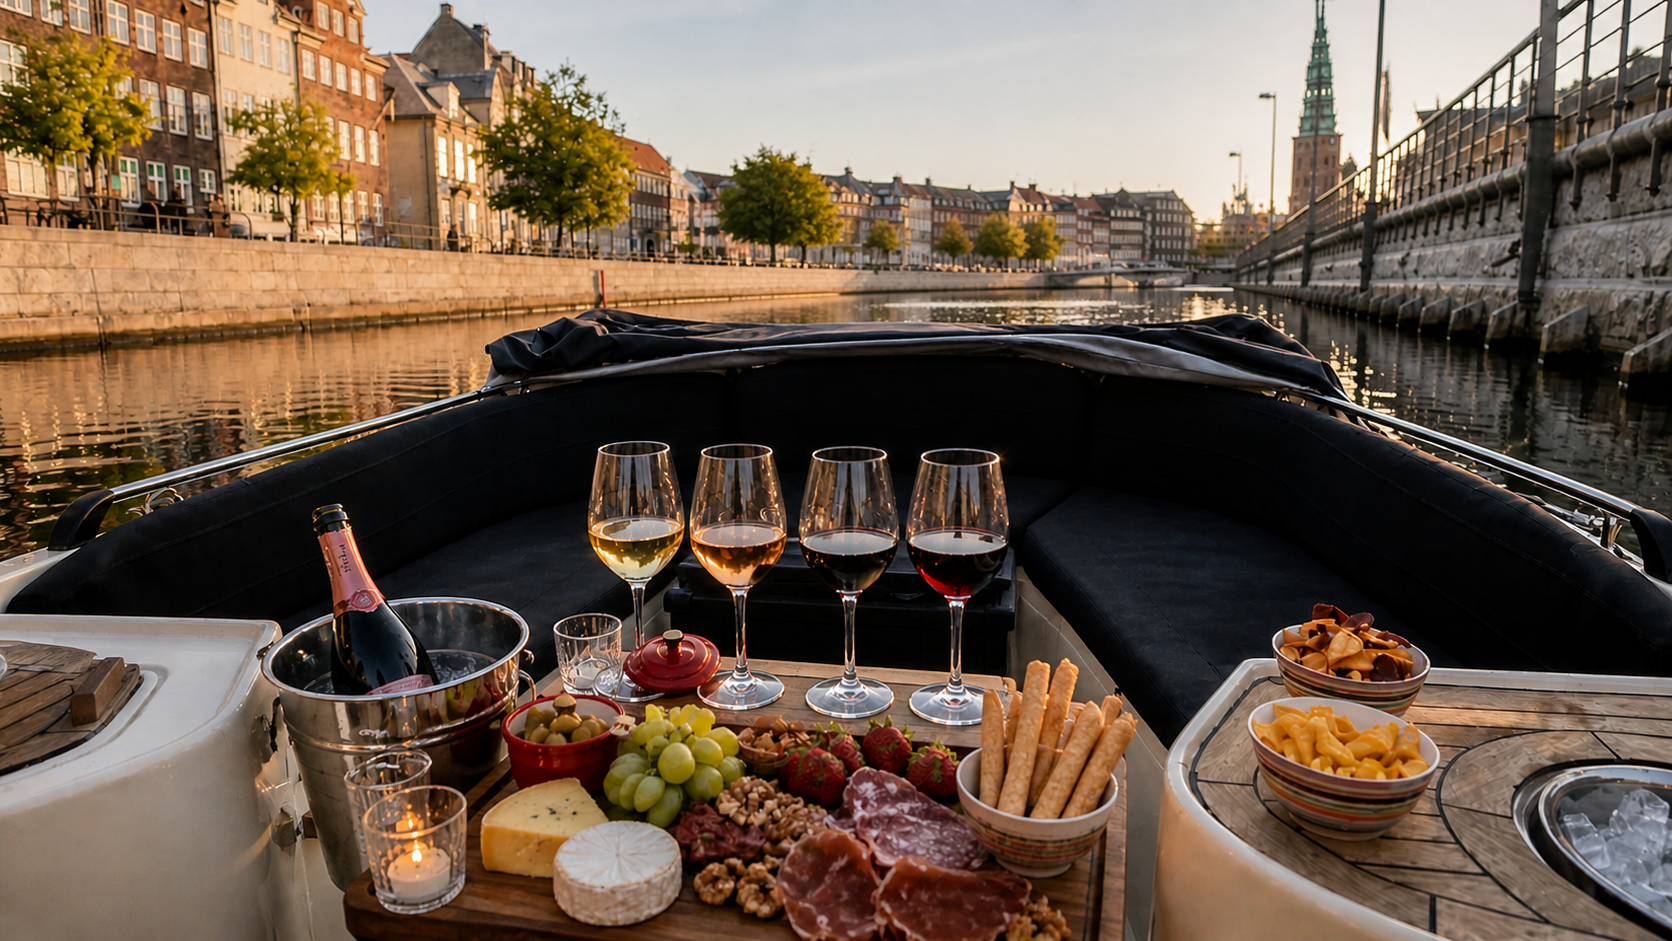
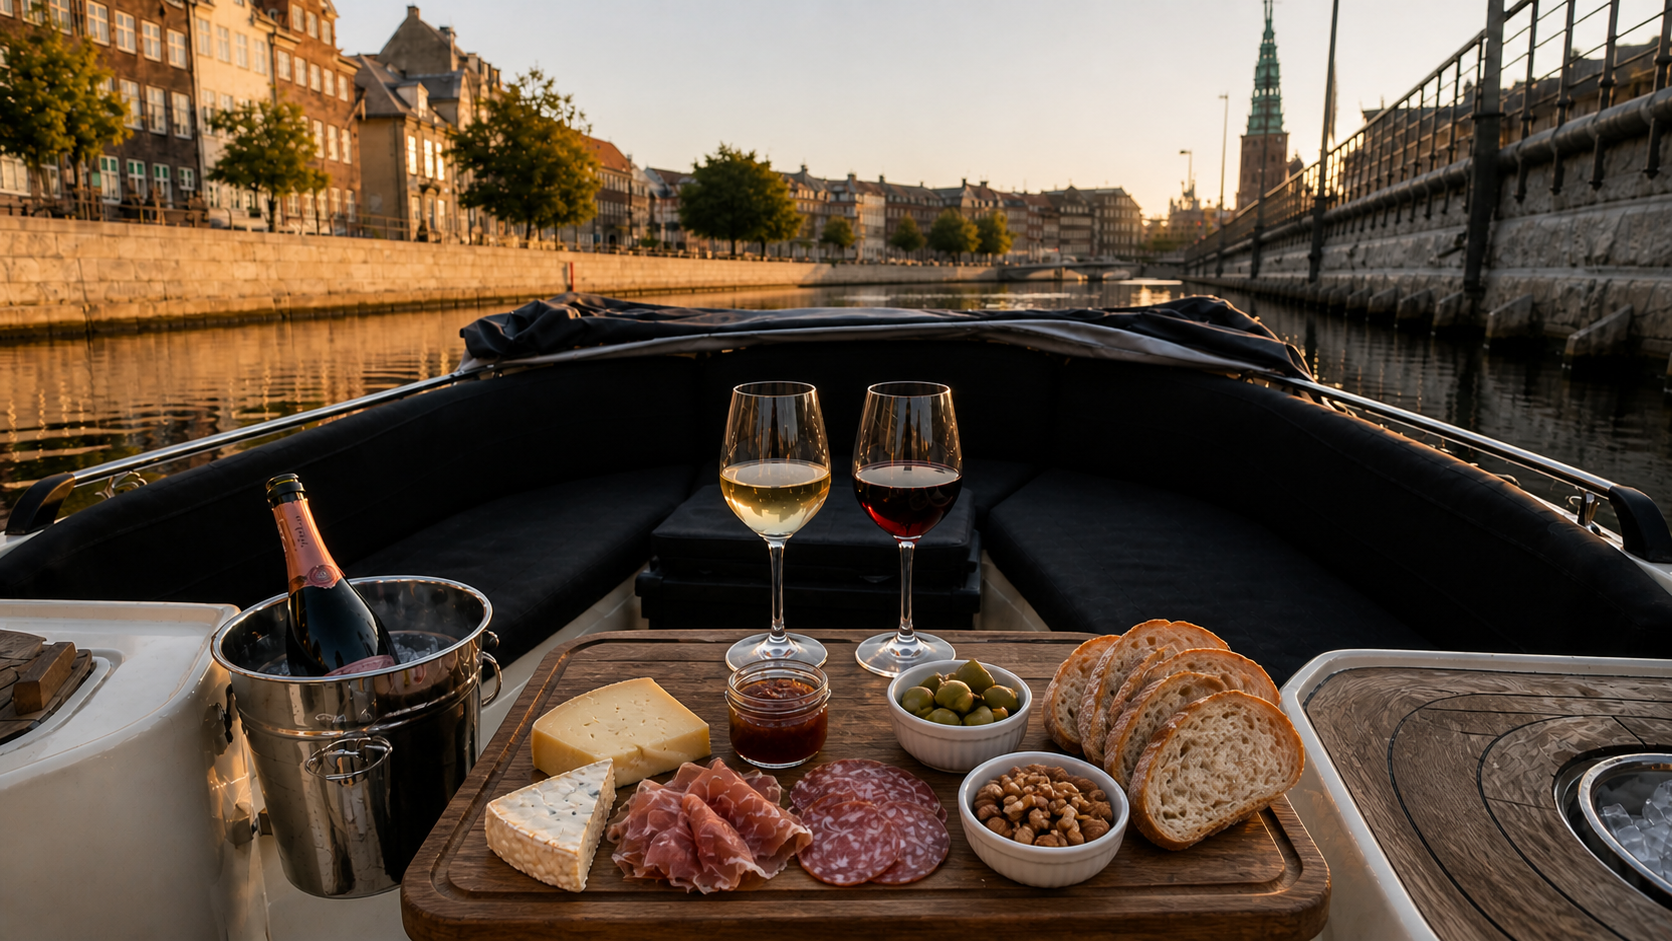
feat: update experience images and implement time selection logic for bookings

diff --git a/js/experience.js b/js/experience.js
@@ -132,7 +132,7 @@ function initBookingPanel() {
 
   const availabilityButton = document.getElementById("experience-check-availability");
 
-  if (!peopleValueInput || !dateValueInput || !languageValueInput || !availabilityButton) {
+  if (!peopleValueInput || !dateValueInput || !timeValueInput || !languageValueInput || !availabilityButton) {
     return;
   }
 
@@ -735,8 +735,10 @@ function initDesktopCarousel() {
   if (!track || !slides.length) return;
 
   let currentIndex = 0;
+  const totalSlides = slides.length;
 
   // Create dots
+  dotsContainer.innerHTML = ''; // Clear existing
   slides.forEach((_, i) => {
     const dot = document.createElement('button');
     dot.className = `experience-gallery__dot ${i === 0 ? 'active' : ''}`;
@@ -748,24 +750,58 @@ function initDesktopCarousel() {
   const dots = dotsContainer.querySelectorAll('.experience-gallery__dot');
 
   function scrollToSlide(index) {
+    // Clamp index
+    if (index < 0) index = 0;
+    if (index >= totalSlides) index = totalSlides - 1;
+    
+    currentIndex = index;
     const slideWidth = slides[0].offsetWidth;
+    
     track.scrollTo({
-      left: index * slideWidth,
+      left: currentIndex * slideWidth,
       behavior: 'smooth'
+    });
+
+    updateDots(currentIndex);
+  }
+
+  function updateDots(index) {
+    dots.forEach((dot, i) => dot.classList.toggle('active', i === index));
+  }
+
+  function handleScrollSync() {
+    const slideWidth = slides[0].offsetWidth;
+    if (slideWidth <= 0) return;
+    
+    const newIndex = Math.round(track.scrollLeft / slideWidth);
+    if (newIndex !== currentIndex) {
+      currentIndex = newIndex;
+      updateDots(currentIndex);
+    }
+  }
+
+  if (prevBtn) {
+    prevBtn.addEventListener('click', (e) => {
+      e.preventDefault();
+      scrollToSlide(currentIndex - 1);
     });
   }
 
-  function updateActiveState() {
-    const slideWidth = slides[0].offsetWidth;
-    currentIndex = Math.round(track.scrollLeft / slideWidth);
-    dots.forEach((dot, i) => dot.classList.toggle('active', i === currentIndex));
+  if (nextBtn) {
+    nextBtn.addEventListener('click', (e) => {
+      e.preventDefault();
+      scrollToSlide(currentIndex + 1);
+    });
   }
-
-  if (prevBtn) prevBtn.addEventListener('click', () => scrollToSlide(currentIndex - 1));
-  if (nextBtn) nextBtn.addEventListener('click', () => scrollToSlide(currentIndex + 1));
 
   track.addEventListener('scroll', () => {
     window.clearTimeout(track.scrollTimeout);
-    track.scrollTimeout = setTimeout(updateActiveState, 100);
+    track.scrollTimeout = setTimeout(handleScrollSync, 50);
+  }, { passive: true });
+
+  // Handle window resize
+  window.addEventListener('resize', () => {
+    // Re-align to current slide
+    scrollToSlide(currentIndex);
   }, { passive: true });
 }

diff --git a/experiences/private-boat-copenhagen-land-tour/index.html b/experiences/private-boat-copenhagen-land-tour/index.html
@@ -20,7 +20,7 @@
 
 </head>
 
-<body class="experience-page">
+<body class="experience-page" data-experience-id="book-land">
   <div class="preloader">
     <div class="preloader__content">
       <svg class="preloader__anchor" viewBox="0 0 24 24" fill="none" stroke="currentColor">
@@ -77,15 +77,15 @@
         <section class="experience-gallery reveal" aria-label="Tour gallery">
           <div class="experience-gallery__track">
             <div class="experience-gallery__slide">
-              <img src="/assets/images/land-tour/tour_land.webp" alt="Private boat and land tour in Copenhagen and Kronborg"
+              <img src="/assets/images/land-tour/helsingor.png" alt="Helsingør and Kronborg Castle"
                 width="1000" height="450" loading="lazy" />
             </div>
             <div class="experience-gallery__slide">
-              <img src="/assets/images/general/private-boat-copenhagen-exterior.webp" alt="Water perspective"
+              <img src="/assets/images/land-tour/dragor.png" alt="Picturesque village of Dragør"
                 width="1000" height="450" loading="lazy" />
             </div>
             <div class="experience-gallery__slide">
-              <img src="/assets/images/general/private-boat-copenhagen-group-wide.webp" alt="Land journey"
+              <img src="/assets/images/land-tour/canales-copenhague.png" alt="Copenhagen canals from the water"
                 width="1000" height="450" loading="lazy" />
             </div>
           </div>
@@ -103,15 +103,15 @@
           <div class="mobile-gallery__track">
 
             <div class="mobile-gallery__slide">
-              <img src="/assets/images/land-tour/tour_land.webp" alt="Boat & Land Experience">
+              <img src="/assets/images/land-tour/helsingor.png" alt="Helsingør and Kronborg Castle">
             </div>
 
             <div class="mobile-gallery__slide">
-              <img src="/assets/images/general/private-boat-copenhagen-exterior.webp" alt="Water perspective">
+              <img src="/assets/images/land-tour/dragor.png" alt="Dragør Village">
             </div>
 
             <div class="mobile-gallery__slide">
-              <img src="/assets/images/general/private-boat-copenhagen-group-wide.webp" alt="Land journey">
+              <img src="/assets/images/land-tour/canales-copenhague.png" alt="Copenhagen Canals">
             </div>
 
           </div>
@@ -565,6 +565,36 @@
                   <div class="experience-booking__calendar-grid" id="experience-date-grid"></div>
                   <div class="experience-booking__date-note">Available dates only</div>
                   <button class="experience-booking__people-done" type="button" id="experience-date-done">Done</button>
+                </div>
+              </div>
+            </div>
+            
+            <div class="experience-booking__time" id="experience-time-picker">
+              <input id="experience-time" type="hidden" value="" />
+              <button class="experience-booking__control experience-booking__control--button" type="button"
+                id="experience-time-trigger" aria-expanded="false" aria-controls="experience-time-panel" disabled>
+                <span class="experience-booking__control-icon" aria-hidden="true">
+                  <svg viewBox="0 0 24 24" fill="none" stroke="currentColor" stroke-width="1.8" stroke-linecap="round"
+                    stroke-linejoin="round">
+                    <circle cx="12" cy="12" r="10"></circle>
+                    <polyline points="12 6 12 12 16 14"></polyline>
+                  </svg>
+                </span>
+                <span class="experience-booking__control-label">Select time</span>
+                <span class="experience-booking__control-value" id="experience-time-value">Date first</span>
+              </button>
+
+              <div class="experience-booking__time-panel" id="experience-time-panel" hidden>
+                <div class="experience-booking__time-card">
+                  <div class="experience-booking__time-head">
+                    <strong>Available times</strong>
+                    <span>Choose your slot</span>
+                  </div>
+                  <div class="experience-booking__time-grid" id="experience-time-grid">
+                    <p class="small-text" style="grid-column: 1/-1; text-align: center; padding: 1rem; opacity: 0.6;">
+                      Select a date first</p>
+                  </div>
+                  <button class="experience-booking__people-done" type="button" id="experience-time-done">Done</button>
                 </div>
               </div>
             </div>

diff --git a/experiences/private-boat-copenhagen-malmo/index.html b/experiences/private-boat-copenhagen-malmo/index.html
@@ -77,15 +77,15 @@
         <section class="experience-gallery reveal" aria-label="Tour gallery">
           <div class="experience-gallery__track">
             <div class="experience-gallery__slide">
-              <img src="/assets/images/malmo/tour_malmo.webp" alt="Private boat tour from Copenhagen to Malmo"
+              <img src="/assets/images/malmo/copenhague-malmo.png" alt="Private boat tour from Copenhagen to Malmö"
                 width="1000" height="450" loading="lazy" />
             </div>
             <div class="experience-gallery__slide">
-              <img src="/assets/images/general/private-boat-copenhagen-sunset-wide.webp" alt="Open Sea Crossing"
+              <img src="/assets/images/malmo/copenhague-malmo-guests.png" alt="Crossing the Øresund Strait"
                 width="1000" height="450" loading="lazy" />
             </div>
             <div class="experience-gallery__slide">
-              <img src="/assets/images/general/private-boat-copenhagen-group-wide.webp" alt="Private Escape"
+              <img src="/assets/images/malmo/copenhague.png" alt="Copenhagen landmarks from the water"
                 width="1000" height="450" loading="lazy" />
             </div>
           </div>
@@ -103,15 +103,15 @@
           <div class="mobile-gallery__track">
 
             <div class="mobile-gallery__slide">
-              <img src="/assets/images/malmo/tour_malmo.webp" alt="Copenhagen to Malmo Boat Tour">
+              <img src="/assets/images/malmo/copenhague-malmo.png" alt="Copenhagen to Malmö Boat Tour">
             </div>
 
             <div class="mobile-gallery__slide">
-              <img src="/assets/images/general/private-boat-copenhagen-sunset-wide.webp" alt="Open Sea Crossing">
+              <img src="/assets/images/malmo/copenhague-malmo-guests.png" alt="Crossing the Øresund Strait">
             </div>
 
             <div class="mobile-gallery__slide">
-              <img src="/assets/images/general/private-boat-copenhagen-group-wide.webp" alt="Private Escape">
+              <img src="/assets/images/malmo/copenhague.png" alt="Copenhagen landmarks from the water">
             </div>
 
           </div>

diff --git a/book/index.html b/book/index.html
@@ -260,7 +260,7 @@
                 <a class="booking-card__media-link" href="/experiences/private-boat-copenhagen-land-tour/"
                     aria-label="View Boat & Land details">
                     <div class="booking-card__img">
-                        <img src="/assets/images/land-tour/tour_land.webp"
+                        <img src="/assets/images/land-tour/helsingor.png"
                             alt="Copenhagen Private Boat & Land Experience" loading="lazy" width="960" height="600" />
                         <span class="booking-card__badge">Private · 4h</span>
                     </div>
@@ -297,8 +297,8 @@
                 <a class="booking-card__media-link" href="/experiences/private-boat-copenhagen-malmo/"
                     aria-label="View Copenhagen to Malmo details">
                     <div class="booking-card__img">
-                        <img src="/assets/images/malmo/tour_malmo.webp"
-                            alt="Copenhagen to Malmo Private Boat Experience" loading="lazy" width="960" height="600" />
+                        <img src="/assets/images/malmo/copenhague-malmo.png"
+                            alt="Copenhagen to Malmö Private Boat Experience" loading="lazy" width="960" height="600" />
                         <span class="booking-card__badge">Private · 7h</span>
                         <span class="booking-card__badge--premium"
                             style="position: absolute; top: 0.6rem; right: 0.6rem; background: var(--clr-navy); color: #fff; font-size: 0.7rem; padding: 0.2rem 0.6rem; border-radius: 99px;">Full

diff --git a/js/utils.js b/js/utils.js
@@ -69,7 +69,7 @@ export const TOURS = {
     title: "Copenhagen to Malmö Experience",
     price: 13000,
     duration: "7 Hours",
-    img: "/assets/images/malmo/tour_malmo.webp",
+    img: "/assets/images/malmo/copenhague-malmo.png",
     url: "/experiences/private-boat-copenhagen-malmo/",
     maxParticipants: 10,
     calendar: "boat2",
@@ -79,7 +79,7 @@ export const TOURS = {
     title: "Copenhagen Private Boat & Land Experience",
     price: 8999,
     duration: "4 Hours",
-    img: "/assets/images/land-tour/tour_land.webp",
+    img: "/assets/images/land-tour/helsingor.png",
     url: "/experiences/private-boat-copenhagen-land-tour/",
     maxParticipants: 6,
     calendar: "boat1",